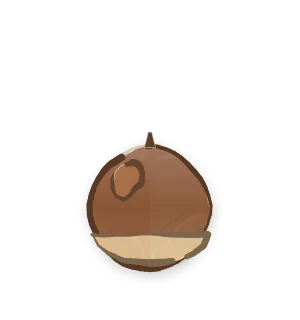
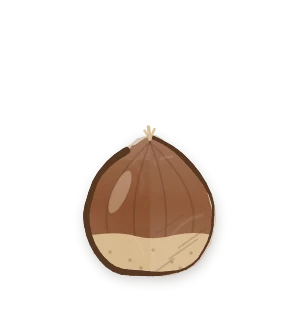
Chestnut: one cut piece with pointed tip, glossy grain and rough pale base
Claude-Session: https://claude.ai/code/session_01NmSHXVsYomvZ8ynjAqML4v

Changed region(s): [[0.27, 0.375, 0.72, 0.875]]

diff --git a/design/art/src/hanji_cards.js b/design/art/src/hanji_cards.js
@@ -27,7 +27,14 @@
     cherry_autumn: function (ctx) { one(ctx, maple(0, 4, 15, 0.12), "#D2563C", 5181); thread(ctx, [[0, 10], [1.4, 22]], 0.9, "#8A3E2A"); },
     zelkova_autumn: function (ctx) { one(ctx, blob(0, 10, 12.5, 11, 5191, 0.05), "#E8893A", 5191, { tone: 0.14 }); one(ctx, [0, 1, 2, 3].map(function (k) { return place(leafPts(6.4, 2.4), 0, -0.6, 1, -Math.PI / 4 + k * Math.PI / 2 - Math.PI / 2 * 0.0); }), "#6E7A40", 5192, { rim: 0.25 }); thread(ctx, [[0, -0.6], [0.6, -4.6]], 1, "#5A4A34"); },
     ginkgo_autumn: function (ctx) { one(ctx, fanLeaf(0, 22, 18, 0), "#EFC447", 5201); },
-    pine_autumn: function (ctx) { var p = []; for (var i = 0; i < 40; i++) { var t = i / 40 * Math.PI * 2, x = Math.sin(t) * 12, y = -Math.cos(t) * 13; if (y < 0) { x *= 0.86 + 0.14 * (1 + y / 13); y *= 0.9; } p.push([x, 9 + y]); } one(ctx, p, "#8A5636", 5211, { tone: 0.18 }); one(ctx, [[-11.6, 15], [11.6, 15]].concat(bez([11.6, 15, 9, 22.6, -9, 22.6, -11.6, 15], 10)), "#D9B98C", 5212, { rim: 0, sh: 0.1 }); one(ctx, [[-1.2, -2.4], [1.2, -2.4], [0.4, -5.6], [-0.4, -5.6]], "#5A3A24", 5213, { rim: 0, sh: 0.1 }); one(ctx, blob(-4.6, 4, 2.6, 4, 5214, 0.1, 0.4), "#A8704A", 5214, { rim: 0, sh: 0 }); },
+    // 가을: 알밤 한 톨 (1.1.5): 한 장으로 오린 윤곽 하나, 꼭지는 뾰족, 밑은 넓적. 윤기 (옅은 결 · 빛줄기) 와 밑동 (연한 거친 면) 은 안쪽에 칠함
+    pine_autumn: function (ctx) { var body = bez([0, -4.6, 3, -3.8, 11, 1, 12.4, 9, 13.4, 16, 10.2, 22, 4, 22.6, 1.5, 22.9, -1.5, 22.9, -4, 22.6, -10.2, 22, -13.4, 16, -12.4, 9, -11, 1, -3, -3.8, 0, -4.6], 10);
+      one(ctx, body, "#8A5232", 5211, { tone: 0.16, inner: function (c) {
+        c.strokeStyle = "rgba(60,32,16,.18)"; c.lineWidth = 0.4; c.lineCap = "round"; [[-7, 0.5], [-2.6, 0.9], [2.6, 0.9], [7, 0.5]].forEach(function (g) { c.beginPath(); c.moveTo(0, -3.6); c.quadraticCurveTo(g[0] * 1.6, 7, g[0] * 1.15, 15.6); c.stroke(); });
+        c.fillStyle = "rgba(255,236,210,.32)"; c.beginPath(); c.ellipse(-6, 6.4, 1.5, 4.6, 0.42, 0, 7); c.fill();
+        c.fillStyle = "#D7B98E"; c.beginPath(); c.moveTo(-14, 15.4); c.quadraticCurveTo(-7, 14, -3, 15.2); c.quadraticCurveTo(1, 16.2, 5, 15); c.quadraticCurveTo(9.5, 14, 14, 15.4); c.lineTo(14, 24); c.lineTo(-14, 24); c.fill();
+        c.fillStyle = "rgba(120,88,56,.35)"; [[-8, 18.4], [-4, 20], [0.6, 18], [4.4, 20.4], [8.2, 18.6], [-1.8, 21.6], [6, 21.6]].forEach(function (q) { c.beginPath(); c.arc(q[0], q[1], 0.35, 0, 7); c.fill(); }); } });
+      thread(ctx, [[0, -4.2], [-0.3, -6.6]], 0.7, "rgba(214,190,150,.95)"); thread(ctx, [[0, -4.2], [0.9, -6.2]], 0.5, "rgba(214,190,150,.9)"); thread(ctx, [[0, -4.2], [-1.1, -5.9]], 0.5, "rgba(214,190,150,.85)"); },
     // 겨울: 눈사람
     cherry_winter: function (ctx) { snowman(ctx, 0, 0, 1, 5221); one(ctx, [[-7.4, -6.4]].concat(bez([-7.4, -6.4, -7, -14, 7, -14, 7.4, -6.4], 10)), "#C8553D", 5223, { rim: 0.3 }); one(ctx, blob(0, -13.6, 2.4, 2.4, 5224, 0.1), "#FBF6EC", 5224, { rim: 0.2 }); },
     zelkova_winter: function (ctx) { snowman(ctx, 0, 0, 1, 5231); one(ctx, [rib([[-9, 10], [-13, 5], [-14, 3]], 1.2, 0.7), rib([[9, 10], [13, 6], [14, 4]], 1.2, 0.7)], "#7E5E48", 5233, { rim: 0.2 }); dot(ctx, 0, 9, 0.9, "#3A332C"); dot(ctx, 0, 14, 0.9, "#3A332C"); },
